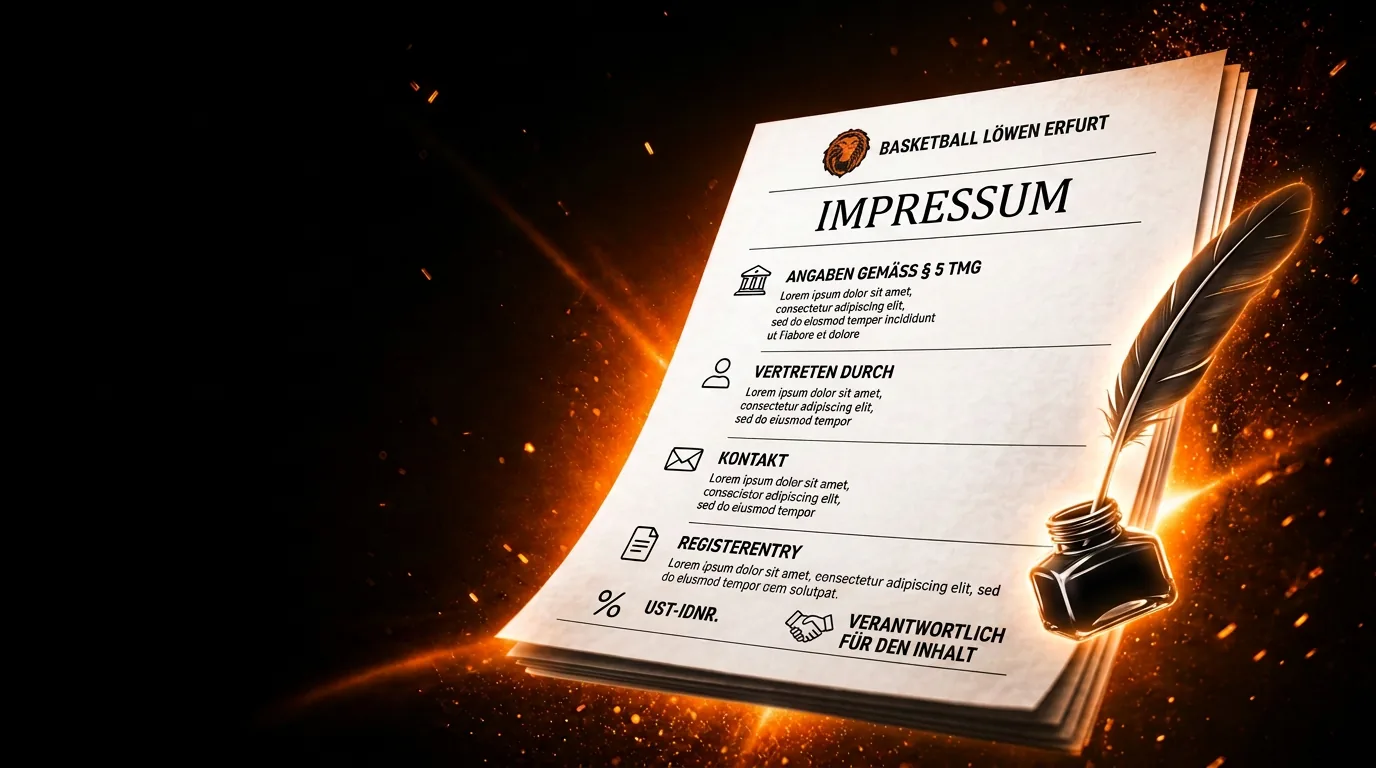
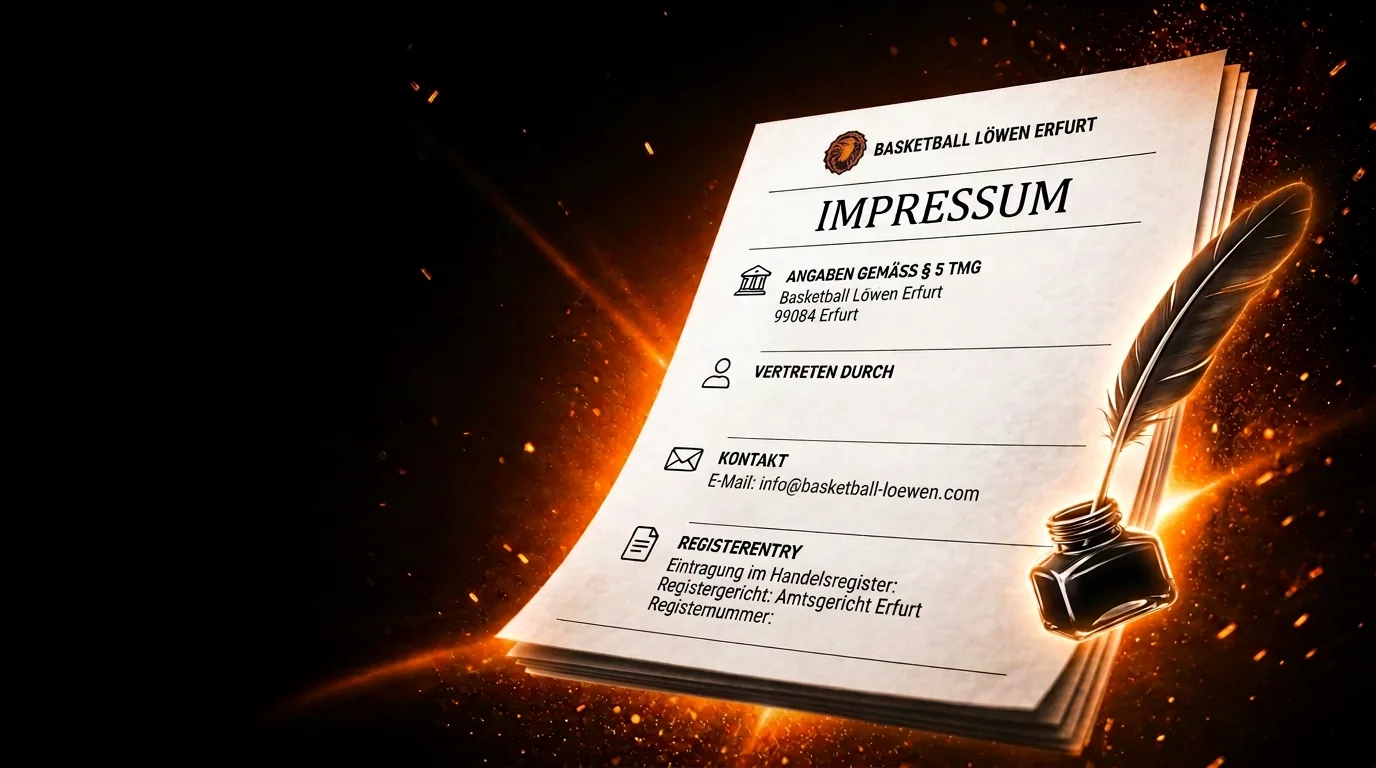
Impressum/Datenschutz: neue Hero-Bilder + Ausschnitt weiter nach unten gezogen

diff --git a/css/site.css b/css/site.css
@@ -1369,8 +1369,8 @@ a.impact-stat:hover { border-color: var(--color-brand-orange); box-shadow: var(-
 .hero-photo.hero-organisation { --hero-photo-url: url('/assets/img/hero-organisation.webp'); background-position: center 30%; }
 
 .hero-photo.hero-jobs { --hero-photo-url: url('/assets/img/hero-jobs.webp'); background-position: center; }
-.hero-photo.hero-impressum { --hero-photo-url: url('/assets/img/hero-impressum.webp'); background-position: center 20%; }
-.hero-photo.hero-datenschutz { --hero-photo-url: url('/assets/img/hero-datenschutz.webp'); background-position: center 20%; }
+.hero-photo.hero-impressum { --hero-photo-url: url('/assets/img/hero-impressum.webp'); background-position: center 10%; }
+.hero-photo.hero-datenschutz { --hero-photo-url: url('/assets/img/hero-datenschutz.webp'); background-position: center 10%; }
 
 .hero-photo.hero-kinderschutz { --hero-photo-url: url('/assets/img/hero-kinderschutz.webp'); background-position: center 20%; }
 .hero-photo.hero-waidloewen { --hero-photo-url: url('/assets/img/hero-waidloewen.webp'); background-position: center 40%; }
